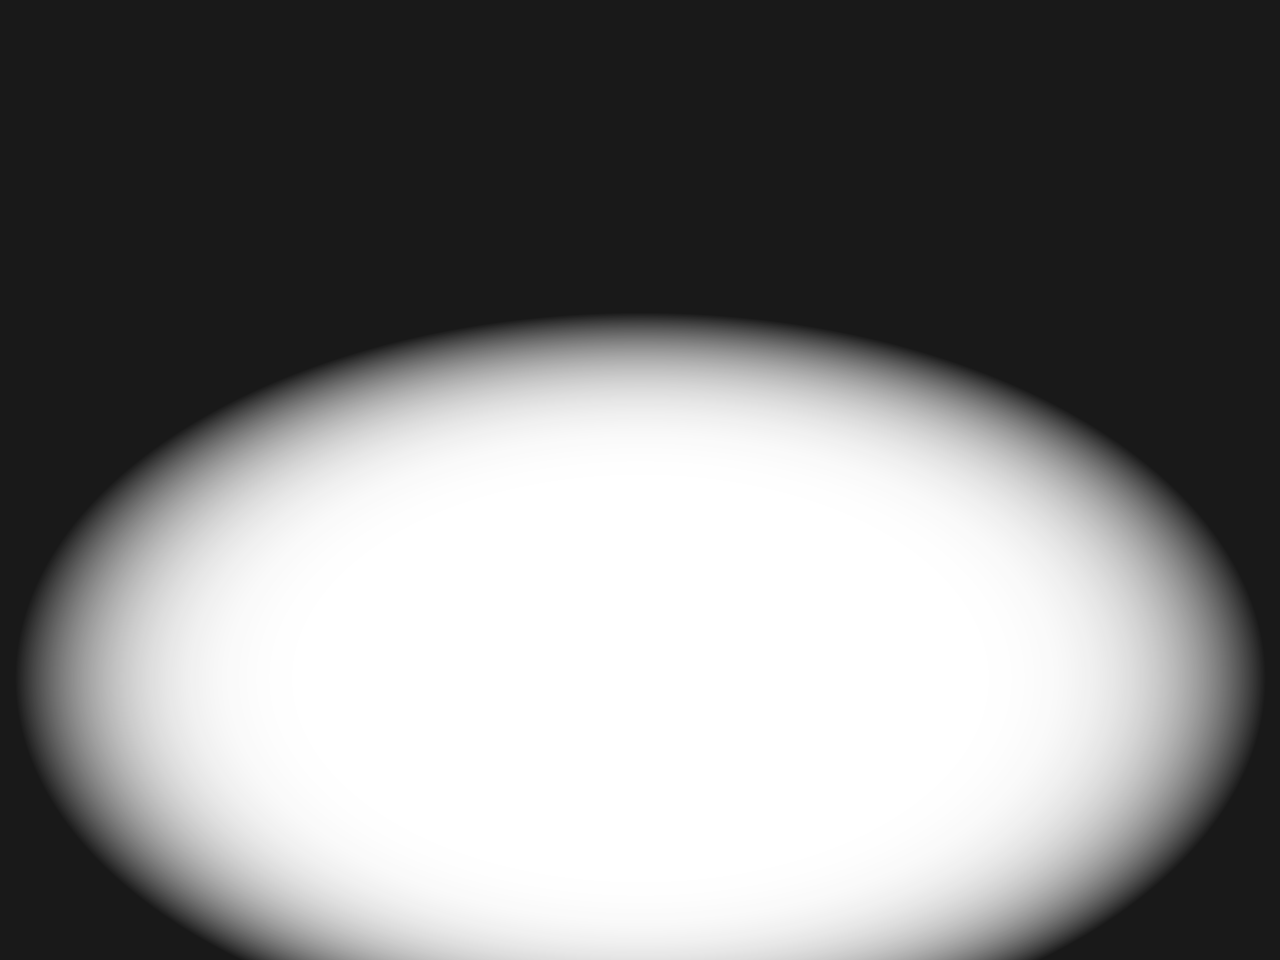
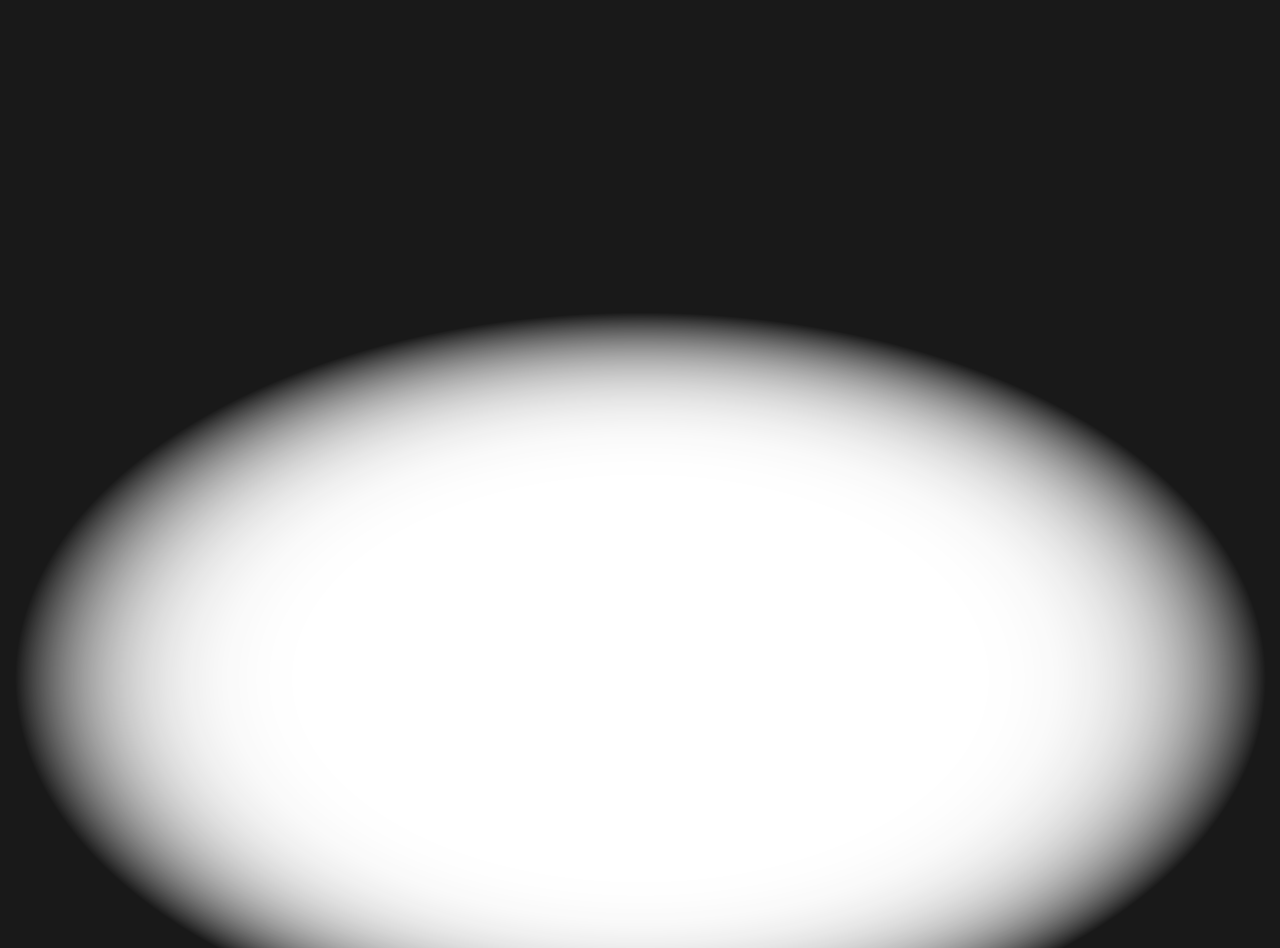
fix datagenerator

Changed region(s): [[0.75, 0.9177, 0.9062, 1.0], [0.0938, 0.9177, 0.25, 1.0]]

diff --git a/frcnn/data_augment.py b/frcnn/data_augment.py
@@ -51,6 +51,15 @@ def augment_image(img_orig, scale):
 	if np.random.randint(0, 2) == 0:
 		img_aug = cv2.flip(img_aug, 1)
 
+	size = 4
+	# generating the kernel
+	kernel_motion_blur = np.zeros((size, size))
+	kernel_motion_blur[int((size-1)/2), :] = np.ones(size)
+	kernel_motion_blur = kernel_motion_blur / size
+
+	# applying the kernel to the input image
+	img_aug = cv2.filter2D(img_aug, -1, kernel_motion_blur)
+
 	return img_aug
 
 
@@ -68,7 +77,7 @@ def augment_generated_training_set(img_data, config):
 	feeder = load_image('data/feeder.png')
 	tree = load_image('data/tree.png')
 
-	files = img_data_aug['img_files']
+	files = [name for name in img_data_aug['img_files'] if 'attack' not in name]
 	obj_count = np.random.randint(1, 6)
 	objects = []
 	for obj in range(obj_count):
@@ -106,7 +115,7 @@ def augment_generated_training_set(img_data, config):
 	img_data_aug['width'] = bg.shape[1]	
 	img_data_aug['bboxes'] = []
 	for obj in objects:			
-		img_aug = overlay_image_alpha(bg, obj['image'][:,:,:1], obj['pos'], obj['image'][:,:,1:2] // 255)
+		img_aug = overlay_image_alpha(bg, obj['image'][:,:,:1], obj['pos'], obj['image'][:,:,1:2] / 255.0)
 		if obj['object']:
 			bbox = {
 				'x1': obj['pos'][0] if obj['pos'][0] > 0 else 0,
@@ -124,8 +133,9 @@ def augment_generated_training_set(img_data, config):
 				bbox['y2'] = tmp
 			img_data_aug['bboxes'].append(bbox)
 		bg = img_aug
-	vinget = load_image('data/vinget.png')
-	img_aug = overlay_image_alpha(img_aug, vinget[:,:,:1], (0,0), vinget[:,:,1:2] // 255)
+	vinget = cv2.imread('data/vinget.png', cv2.IMREAD_UNCHANGED)
+		
+	img_aug = overlay_image_alpha(img_aug, vinget[:,:,:1], (0,0), (np.random.randint(65,80) / 100.0) * vinget[:,:,3:4] / 255.0)
 	img_aug = np.repeat(img_aug, 3, 2)
 	
 	return img_data_aug, img_aug
@@ -171,8 +181,8 @@ if __name__ == "__main__":
 			start_point = (bbox['x1'], bbox['y1'])
 			end_point = (bbox['x2'], bbox['y2'])
 			objects.append(f"{img_file_name},{bbox['x1']},{bbox['y1']},{bbox['x2']},{bbox['y2']},Pig")
-			#color = (np.random.randint(0, 255), np.random.randint(0, 255), np.random.randint(0, 255))
-			#img_aug = cv2.rectangle(img_aug,start_point, end_point, color, 2)
+			color = (np.random.randint(0, 255), np.random.randint(0, 255), np.random.randint(0, 255))
+			img_aug = cv2.rectangle(img_aug,start_point, end_point, color, 2)
 		try:
 			cv2.imshow('Window', img_aug)
 			#print(img_data_aug)

diff --git a/frcnn/data_generators.py b/frcnn/data_generators.py
@@ -283,14 +283,14 @@ def get_anchor_gt(all_img_data, class_count, C, img_length_calc_function, backen
 
 		for img_data in all_img_data:
 			try:
-
+				img_data['img_files'] = all_img_data
 				if C.balanced_classes and sample_selector.skip_sample_for_balanced_class(img_data):
 					continue
 
 				# read in image, and optionally add augmentation
 
 				if mode == 'train':
-					img_data_aug, x_img = data_augment.augment_validation_set(img_data, C)
+					img_data_aug, x_img = data_augment.augment_generated_training_set(img_data, C)
 				else:
 					img_data_aug, x_img = data_augment.augment_validation_set(img_data, C)
 
